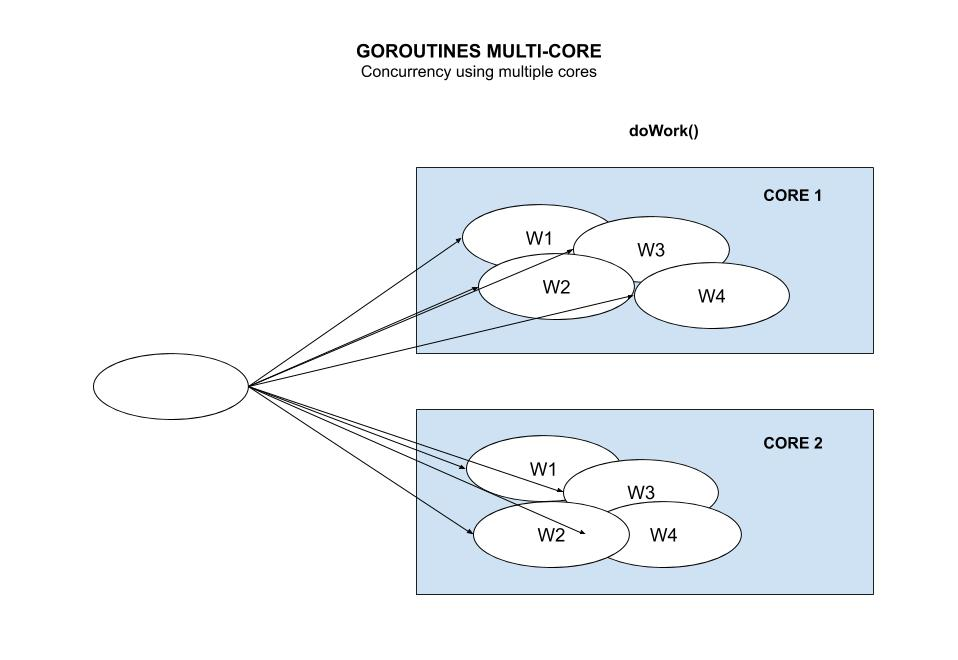
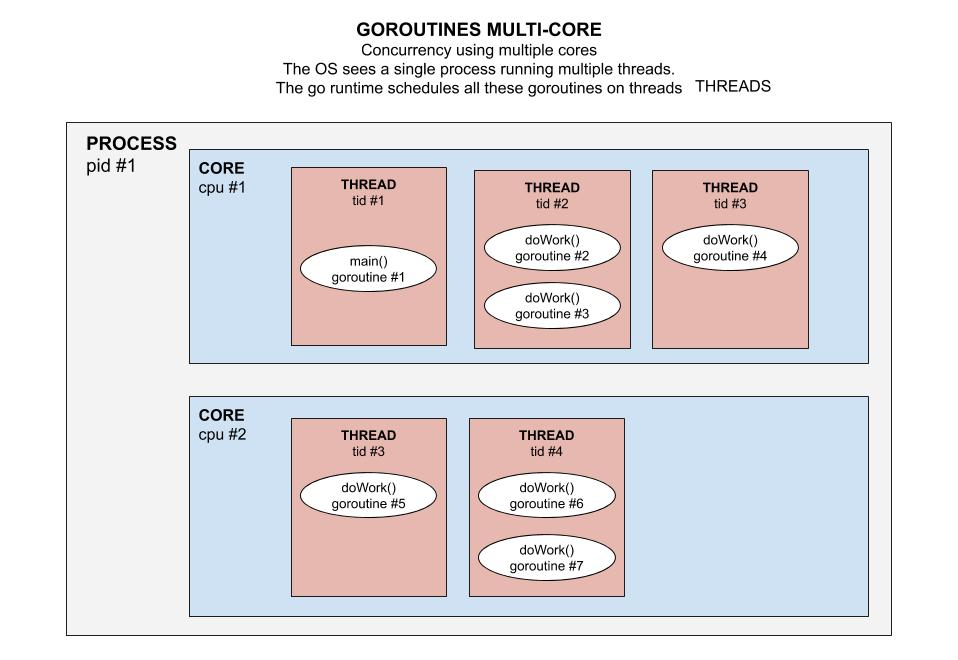
updating goroutines multi-core

diff --git a/goroutines/goroutines-multi-core/goroutines-multi-core.go b/goroutines/goroutines-multi-core/goroutines-multi-core.go
@@ -1,11 +1,9 @@
 package main
 
 import (
-	"bytes"
 	"fmt"
 	"os"
 	"runtime"
-	"strconv"
 	"sync"
 	"syscall"
 
@@ -18,57 +16,58 @@ import (
 */
 import "C"
 
-//CORES
-const numberCores = 10
+// GO RUNTIME
+const numberCores = 5    // Number of CPU you want to use
+const lockthreads = true // locked the goroutine to a thread
 
 // WORKERS
-const useGoroutine = true
-const numberWorkers = 50
-const timeWork = 1
+const useGoroutine = true // Do you want to use goroutines
+const numberWorkers = 3   // Number of workers
+const timeWork = 5        // Amount of time it takes a worker to finish
 
-// OTHER
+// BUFFER CHANNEL
 var channelBufferSize = numberWorkers + 1 // How many channel buffers
 
 // struct to pass in channel
 type workerStats struct {
-	id        int
-	timeTook  time.Duration
-	pid1      int
-    pid2      int
-    cpu1      int
-	threadID1 uint64
-	threadID2 int
-}
-
-func getGID() uint64 {
-	b := make([]byte, 64)
-	b = b[:runtime.Stack(b, false)]
-	b = bytes.TrimPrefix(b, []byte("goroutine "))
-	b = b[:bytes.IndexByte(b, ' ')]
-	n, _ := strconv.ParseUint(string(b), 10, 64)
-	return n
+	id       int
+	timeTook time.Duration
+	cpuID    _Ctype_int
+	pid      int
+	tid      int
 }
 
 func doWork(msgCh chan *workerStats, wg *sync.WaitGroup, id int) {
 
-	// Lock this goroutine to a particular thread
-	// runtime.LockOSThread()
-	//defer runtime.UnlockOSThread()
+	// Lock this goroutine to a particular thread (go runtime won't change threads)
+	if lockthreads {
+		runtime.LockOSThread()
+		defer runtime.UnlockOSThread()
+	}
+
+	// Get the start thread id
+	startTID := syscall.Gettid()
+
+	// Print out stats
+	fmt.Printf("    Worker: %v, cpuID: %v, pid: %v, tid: %v\n", id, C.sched_getcpu(), os.Getpid(), syscall.Gettid())
 
 	timeStart := time.Now().UTC()
 	time.Sleep(timeWork * time.Second)
 	timeEnd := time.Now().UTC()
 	timeTook := timeEnd.Sub(timeStart)
 
-	fmt.Printf("worker: %d, CPU: %d\n", id, C.sched_getcpu())
+	// Check if the go runtime moved onto a different thread
+	endTID := syscall.Gettid()
+	if startTID != endTID {
+		fmt.Printf("    *** The go runtime moved Worker: %v onto a different thread\n", id)
+	}
 
 	msgCh <- &workerStats{
-		id:        id,
-		timeTook:  timeTook,
-		pid1:      os.Getpid(),
-		pid2:      syscall.Getpid(),
-		threadID1: getGID(),
-		threadID2: syscall.Gettid(),
+		id:       id,
+		timeTook: timeTook,
+		cpuID:    C.sched_getcpu(),
+		pid:      os.Getpid(),
+		tid:      syscall.Gettid(),
 	}
 	wg.Done()
 
@@ -77,14 +76,14 @@ func doWork(msgCh chan *workerStats, wg *sync.WaitGroup, id int) {
 func getStats(msgCh chan *workerStats, wg *sync.WaitGroup, numberWorkers int) {
 
 	// WAIT FOR ALL WORKERS TO FINISH
-	fmt.Println("Waiting for all the workers to finish")
-	fmt.Println("There are currently this many goroutines", runtime.NumGoroutine())
+	fmt.Println("getStats - Waiting for all the workers to finish")
+	fmt.Println("getStats - There are currently this many goroutines", runtime.NumGoroutine())
 	wg.Wait()
 
 	// Print out stats from each worker
 	for i := 0; i < numberWorkers; i++ {
 		r := <-msgCh
-		fmt.Printf("From Worker %v, Took %v on pid %v or pid %v and tid %v or tid %v\n", r.id, r.timeTook, r.pid2, r.pid2, r.threadID1, r.threadID2)
+		fmt.Printf("getStats - From Worker %v, Took: %v, cpuID: %v, pid: %v, tid: %v\n", r.id, r.timeTook, r.cpuID, r.pid, r.tid)
 	}
 
 }
@@ -93,16 +92,27 @@ func main() {
 
 	// START
 	start := time.Now()
+	fmt.Println("")
 
 	// Create wait group
 	var wg sync.WaitGroup
 
-	fmt.Printf("Main start time %f seconds\n", time.Since(start).Seconds())
-
+	// PRINT SOME STATS
+	fmt.Printf("Main start time: %f seconds\n", time.Since(start).Seconds())
+	// Print constants
+	fmt.Printf("Your settings are:\n")
+	fmt.Printf("    const numberCores = %v\n", numberCores)
+	fmt.Printf("    const lockthreads = %v\n", lockthreads)
+	fmt.Printf("    const useGoroutine = %v\n", useGoroutine)
+	fmt.Printf("    const numberWorkers = %v\n", numberWorkers)
+	fmt.Printf("    const timeWork = %v\n", timeWork)
+	fmt.Printf("    const channelBufferSize = %v\n", channelBufferSize)
 	// How many cores can i use?
 	fmt.Println("Total number of cores on this machine: ", runtime.NumCPU())
+	// Limit number of cores to numberCores
 	runtime.GOMAXPROCS(numberCores)
-	fmt.Println("Number of Cores that can be used here: ", runtime.GOMAXPROCS(-1))
+	fmt.Println("Number of Cores you set ", runtime.GOMAXPROCS(-1))
+	fmt.Println("")
 
 	// Make Channel Buffer
 	msgCh := make(chan *workerStats, channelBufferSize)
@@ -123,6 +133,6 @@ func main() {
 	getStats(msgCh, &wg, numberWorkers)
 
 	// END
-	fmt.Printf("Main end time in %f seconds\n", time.Since(start).Seconds())
+	fmt.Printf("Main end time: %f seconds\n", time.Since(start).Seconds())
 
 }
